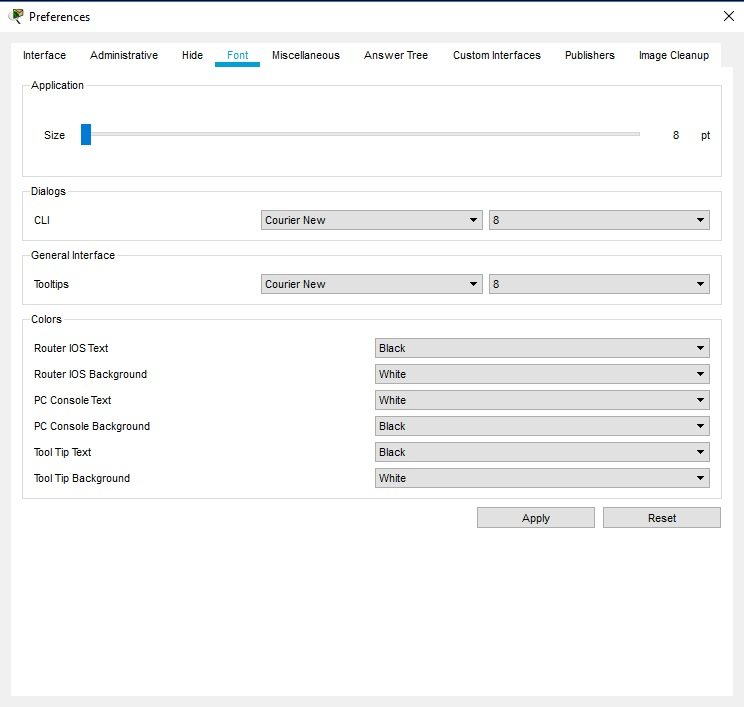
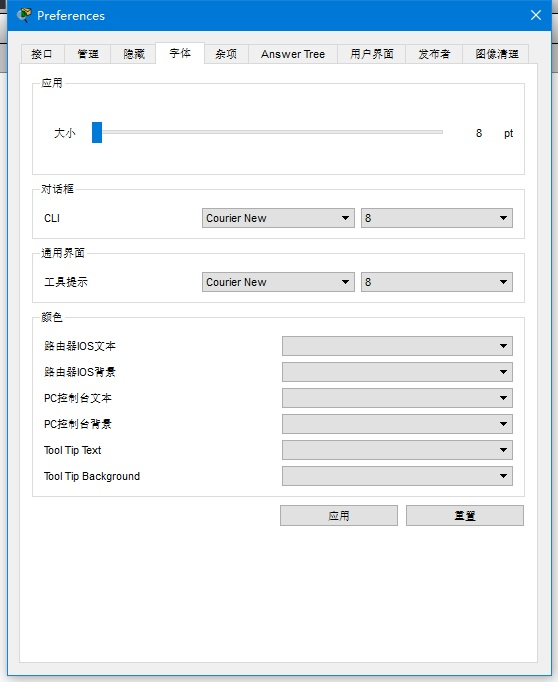
入门->首选项 还差一点

Changed region(s): [[0.0, 0.0, 1.0, 1.0]]

diff --git a/Simplified Chinese/preferences.htm b/Simplified Chinese/preferences.htm
@@ -29,6 +29,7 @@
       <strong>在逻辑工作区始终显示端口标签（Always Show Port Labels）</strong>，
       <strong>鼠标在逻辑工作区中悬停时显示端口标签（Show Port Labels When Mouse Over）</strong>。<br />
 
+      
       您还可以在“仿真模式”中
       <strong>显示数据包上的QoS标签（Show QoS Stamps on Packets）</strong>和
       <strong>启动电缆长度效果（Enable Cable Length Effects）</strong>。<br />
@@ -37,89 +38,132 @@
 
       <strong>在物理工作区显示电缆信息弹出窗口（Show Device Dialog Taskbar）</strong>选项，允许切换显示在组织当前打开的设备对话框的工作区底部的任务栏。<br />
 
-      日志记录功能允许程序捕获您输入的所有Cisco IOS命令，并将其导出到文本文件（有关更多信息，请参阅“配置设备”页面）。
+      <strong>日志记录（Logging）</strong>功能允许程序捕获您输入的所有Cisco IOS命令，并将其导出到文本文件（有关更多信息，请参阅“配置设备”页面）。<br />
 
-      The 
-      option allows you to toggle the Automatic Connection when connecting
-      devices. The  option allows
-      you to toggle the taskbar that is displayed at the bottom of the workspace
-      which organizes currently opened device dialogs. The <strong>Logging</strong>
-      feature allows the program to capture all Cisco IOS commands that you
-      enter and export them to a text file (refer to the "Configuring Devices"
-      page for more information). You can also change the base language
-      of the program by choosing from the <strong>Languages</strong> list and
-      then pressing the <strong>Change Language</strong> button. Lastly, you can personalize your Packet Tracer appearance by select different color scheme.
+      您还可以通过从
+      <strong>语言（Languages）</strong>列表中选择.ptl文件，然后点击
+      <strong>更改语言（Change Language）</strong>按钮来修改软件语言。<br />
+
+      最后，您可以通过选择不同的配色方案（Color scheme）来个性化Packet Tracer的外观。
     </p>
-    <p class="myPic"> <img src="images/interfaceOverview_3.jpg" alt="Preferences Window - Interface Tab"> </p>
+    <p class="myPic"><img src="images/interfaceOverview_3.jpg" alt="首选项窗口 - 接口选项卡"></p>
     <p>&nbsp;</p>
-    <p>Under the <strong>Administrative</strong> panel, you can disable access
-      to a particular interface such as the <strong>Interface tab </strong>and
-      the <strong>Multiuser menu</strong> using the <strong>Interface Locking</strong>
-      feature. In order for the settings and configurations to apply globally
-      for every user on the machine, you need to click on the <strong>Write</strong>
-      button to save the PT.conf file to the Packet Tracer installation folder.
-      Optionally, you may change the <strong>User Folder</strong> to a
-      different location which is where your own settings, configurations, save
-      files, and device templates are stored. Additionally, you can set a <strong>Password</strong>
-      to prevent others from tampering with these preferences. Note that the
-      password is case-sensitive.</p>
-    <p class="myPic"> <img src="images/interfaceOverview_4.jpg" alt="Preferences Window - Administrative Tab"> </p>
+    <p>
+      在
+      <strong>管理（Administrative）</strong>面板下，您可以使用
+      <strong>接口锁定（Interface Locking）</strong>功能禁用对特定界面的访问，例如
+      <strong>接口标签（Interface tab）</strong>和
+      <strong>多用户菜单（Multiuser menu）</strong>。<br />
+      
+      为了使设置和全局配置应用于计算机上的每个用户，您需要单击
+      <strong>写入（Write）</strong>按钮以将选项写入PT安装文件。<br />
+
+      （可选）您可以将
+      <strong>用户文件夹（User Folder）</strong>更改到其他位置，此文件夹是您自己的设置，配置，保存文件和设备模板的储存位置。<br />
+
+      此外，你还可以设置
+      <strong>密码（Password）</strong>以防止他人篡改这些首选项。请注意，密码区分大小写。
+    </p>
+    <p class="myPic"><img src="images/interfaceOverview_4.jpg" alt="首选项窗口 - 管理选项卡"></p>
     <p>&nbsp;</p>
-    <p>Under the <strong>Hide</strong> panel, you can choose to hide or show
-      many features inside of your PT activity.&nbsp; Examples are the <strong>Physical</strong>,
-      <strong>Config</strong>, <strong>CLI</strong>, <strong>Desktop</strong>,
-      <strong>GUI</strong>, <strong>HTML GUI</strong>, and <strong>HTML</strong>
-      tabs in the device edit dialog.</p>
-    <p class="myPic"> <img src="images/interfaceOverview_5.jpg" alt="Preferences Window - Hide Tab"> </p>
+    <p>
+      在
+      <strong>隐藏（Hide）</strong>选项卡中，你可以选择显示或隐藏一些功能。<br />
+      比如设备编辑对话框中的：
+      <strong>隐藏物理标签（Physical）</strong>，
+      <strong>隐藏所有设备配置标签（Config）</strong>，
+      <strong>隐藏所有设备CLI标签（CLI）</strong>，
+      <strong>隐藏桌面标签（Desktop）</strong>，
+      <strong>隐藏GUI标签（GUI）</strong>，
+      <strong>HTML GUI</strong>，
+      <strong>HTML</strong>
+    </p>
+    <p class="myPic"><img src="images/interfaceOverview_5.jpg" alt="首选项窗口 - 隐藏选项卡"></p>
     <p>&nbsp;</p>
-    <p>Under the <strong>Font</strong> panel, you can select different fonts
-      and font sizes for the <strong>Dialogs</strong>, <strong>Workspace/Activity
-        Wizard</strong>, and the <strong>General Interface</strong>. Also, the
-      <strong> Application </strong> font size can be controlled with the <em>Size</em>
-      slider control. <em>Application</em> font applies to general application
-      user interface elements. Under the Colors category, you can change the
-      font color of the <strong>Router IOS Text</strong>, <strong>Router IOS
-        Background</strong>, <strong>PC Console Text</strong>, and <strong>PC
-        Console Background</strong>. </p>
-    <p>More information on application font settings can be found in <a href="fontPreference.htm">Font
-        Setting/4K Support</a>.</p>
-    <p class="myPic"> <img src="images/interfaceOverview_6.jpg" alt="Preferences Window - Font Tab"> </p>
+    <p>
+      在
+      <strong>字体（Font）</strong>选项卡中，可以为
+      <strong>对话框（Dialogs）</strong>，
+      <strong>工作区 / 活动向导（Workspace/Activity Wizard）</strong>，
+      <strong>通用界面（General Interface）</strong>，选择不同的字体和字体大小。<br />
+
+      另外可以用<em>大小(Size)</em>滑块来控制
+      <strong>应用程序（Application）</strong>的字体大小。<br />
+
+      <em>应用程序（Application）</em>字体适用于常规应用程序用户界面元素<br />
+
+      在颜色里，您可以更改
+      <strong>路由器IOS文本（Router IOS Text）</strong>，
+      <strong>路由器IOS背景（Router IOS Background）</strong>，
+      <strong>PC控制台文本（PC Console Text）</strong>，
+      <strong>PC控制台背景（PC Console Background）</strong>
+    </p>
+    <p>
+      有关应用程序字体设置的更多信息，请参见
+      <a href="fontPreference.htm">字体设置/4K分辨率支持</a>。
+    </p>
+    <p class="myPic"><img src="images/interfaceOverview_6.jpg" alt="首选项窗口 - 字体选项卡"></p>
     <p>&nbsp;</p>
-    <p>Under the <strong>Miscellaneous</strong> panel, you can change the
-      assortment of settings.
-      The Auto File Backup Interval controls how often Packet Tracer will backup your
-      current file. This can be turned off or changed in 5 minute increments. When this
-      feature is turned on, your existing work will be saved to a new file with the
-      extension .bak alongside the file that the current work is opened from. If the
-      current work is not opened from a file, it will save to User Folder with the name
-      unnamed.bak in the Administrative tab. This feature will overwrite any existing files with the
-      same name as the backup file, including older backup files, or files that happen
-      to have the same name. You may notice momentary pauses in Packet Tracer when
-      an auto backup is happening. Disable this feature if it is interfering with your work. 
-      The <strong>Simulation - Buffer Full Action</strong> feature allows you
-      to set the preferred action that Packet Tracer will perform. You can set
-      the action to <strong>Prompt</strong> if you want to be prompted when the
-      Simulation buffer is full. At the prompt, you can either <strong>Clear
-        Event List</strong> or <strong>View Previous Events</strong>.
-      Alternatively, you can set the action to either <strong>Auto Clear Event
-        List</strong> to allow Packet Tracer to automatically clear the Event
-      List when the buffer is full or you can set the action to <strong>Auto
-        View Previous Events</strong> to automatically view the previous events.
-      <strong>Show Device Dialog Taskbar</strong> will enable a taskbar inside the Packet Tracer workspace to navigate between opened device dialog windows. <strong>Enable External Network Access from Device Scripts</strong> will allow script modules to create and open connections to your physical network. It opens up a new realm of possibility to integrate between real world networks your scripts. <strong>Proxy Settings</strong>: The proxy settings here will apply to all network connections, except the multiuser feature. Select the appropriate setting for your proxy. The default behavior of Packet Tracer will attempt to use your system proxy settings to connect to the network. If the system proxy settings are incorrect, changing the settings here will override any system setting going forward. Make sure to click Apply Proxy to save the configuration.</span>
-    <p class="myPic"> <img src="images/interfaceOverview_11.jpg" alt="Preferences Window - Miscellaneous Tab"> </p>
+    <p>
+      在<strong>杂项（Miscellaneous）</strong>中，您可以修改以下设置：<br />
+
+      自动备份文件间隔（Auto File Backup Interval），设置Packet Tracer多久备份一次您的当前打开的文件。<br />
+
+      可以关闭自动备份，或选择一个以5分钟步进的保存间隔时间。<br />
+
+      启用此功能后，将在当前打开文件位置生成一个拓展名为.bak的备份文件。<br />
+
+      如果是一个新建的文件，将在“管理”选项卡中设置的“用户文件夹”目录下生成一个unnamed.bak文件。<br />
+
+      此功能会覆盖与备份文件同名的所有现有文件，包括比较旧的备份文件或偶然碰到的同名文件。<br />
+
+      您可能会发行在进行自动备份时的卡顿。<br />
+
+      如果您觉得此功能干扰到了您工作，请关闭自动备份。<br />
+
+      <strong>模拟-缓存完整动作（Simulation - Buffer Full Action）</strong><br />
+
+      如果要在“模拟”缓冲区已满时提示您，可以将其设置为<strong>提示符（Prompt）</strong>。<br />
+
+      在提示符下，您可以<strong>清除事件列表(Clear Event List)</strong>或<strong>查看以前的事件（View Previous Events）</strong>。<br />
+
+      或者，您可以将操作设置为<strong>自动清除事件列表（Auto Clear Event List）</strong>，以允许Packet Tracer在缓冲区已满时自动清除事件列表，也可以将操作设置为<strong>自动查看先前的事件（Auto View Previous Events）</strong>以自动查看先前的事件。<br />
+    
+      <strong>显示设备对话框任务栏（Show Device Dialog Taskbar）</strong>将使Packet Tracer工作区中的任务栏能够在打开的设备对话框窗口之间导航。 <br />
+  
+      <strong>启用来自设备脚本的外部网络访问（Enable External Network Access from Device Scripts）</strong>启用将允许脚本模块创建并打开与您的外部物理网络的连接。
+
+      这使得在真实网络环境中集成成为可能。<br />
+
+      <strong>代理设置（Proxy Settings）</strong>：<br />
+      此处的代理设置将适用于所有网络连接，多用户功能除外。
+      请选择正确的代理类型。<br />
+
+      Packet Tracer默认使用系统代理来连接网络。
+      如果系统代理无法使用，请到此处更改代理设置。
+      点击“应用代理”按钮以保存配置。
+    </p>
+    <p class="myPic"><img src="images/interfaceOverview_11.jpg" alt="首选项窗口 - 杂项标签页"></p>
 
     <p>&nbsp;</p>
-    <p>Under the <strong>Answer Tree</strong> panel, you can decide which activity wizard tree nodes to display for Router devices, Switch devices, and End devices.</p>
-    <p class="myPic"> <img src="images/interfaceOverview_12.jpg" alt="Preferences Window - Answer Tree Tab"> </p>
+    <p>
+      在<strong>评估树（Answer Tree）</strong>选项卡中，您可以决定哪些节点在活动向导中显示。如：路由器，交换机，终端等。
+    </p>
+    <p class="myPic"><img src="images/interfaceOverview_12.jpg" alt="首选项窗口 - Answer Tree 选项卡"></p>
 
 
     <p>&nbsp;</p>
-    <p><strong>Image Cleanup</strong> panel shows all custom graphics images
-      used by current user network. These files usually come from custom device
-      icons, container backgrounds or custom IoT device graphics. These images
-      are saved inside user network files. Often times, when a user goes through
-      several authoring cycles for the same network file, these custom images
-      accumulate. In this case the panel at hand allows users to view the list
+    <p>
+      <strong>图像清理（Image Cleanup）</strong><br />
+      此选项卡中显示当前用户网络中使用的所有自定义图形图像。<br />
+      这些文件通常来自自定义设备图标，集群背景或自定义IoT设备图片。
+      这些图像保存在用户网络文件中。<br />
+      通常，当用户经历同一网络文件的多个创作周期时，这些自定义图像会累积。
+      在这种情况下，该选项卡允许用户查看当前保存在文件中的自定义图像列表，并删除用户认为不再用于当前网络文件中的图像。<br />
+      注意！！！一旦删除这些文件，它们可能无法恢复，除非在Packet Tracer外部保存了外部副本。<br />
+      删除仍由当前用户网络的组件之一使用的文件将导致占位符映像“找不到文件”映像被用于代替已删除的映像。
+      
+      In this case the panel at hand allows users to view the list
       of custom images presently saved in the file and delete those that the
       user believes are no longer used for anything in the current network file.
       A note of caution needs to be voiced here that once these files are
